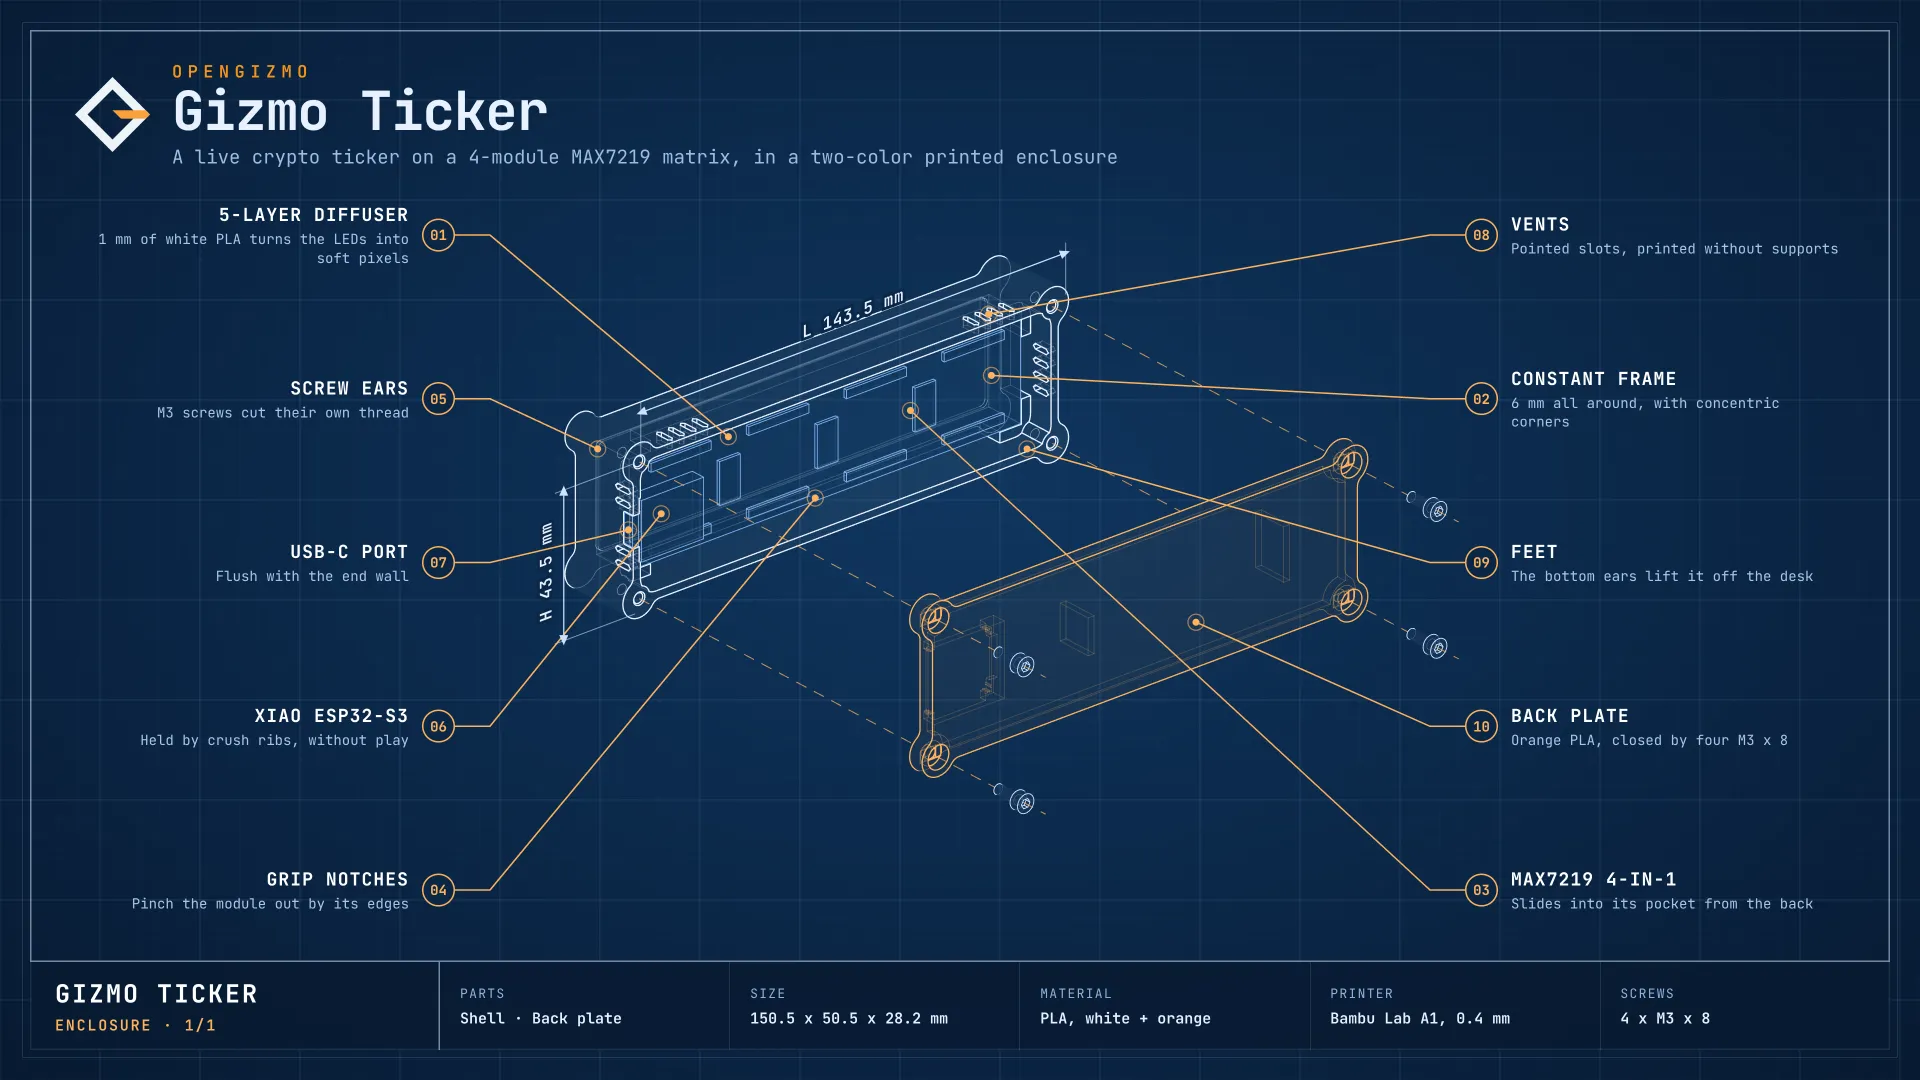
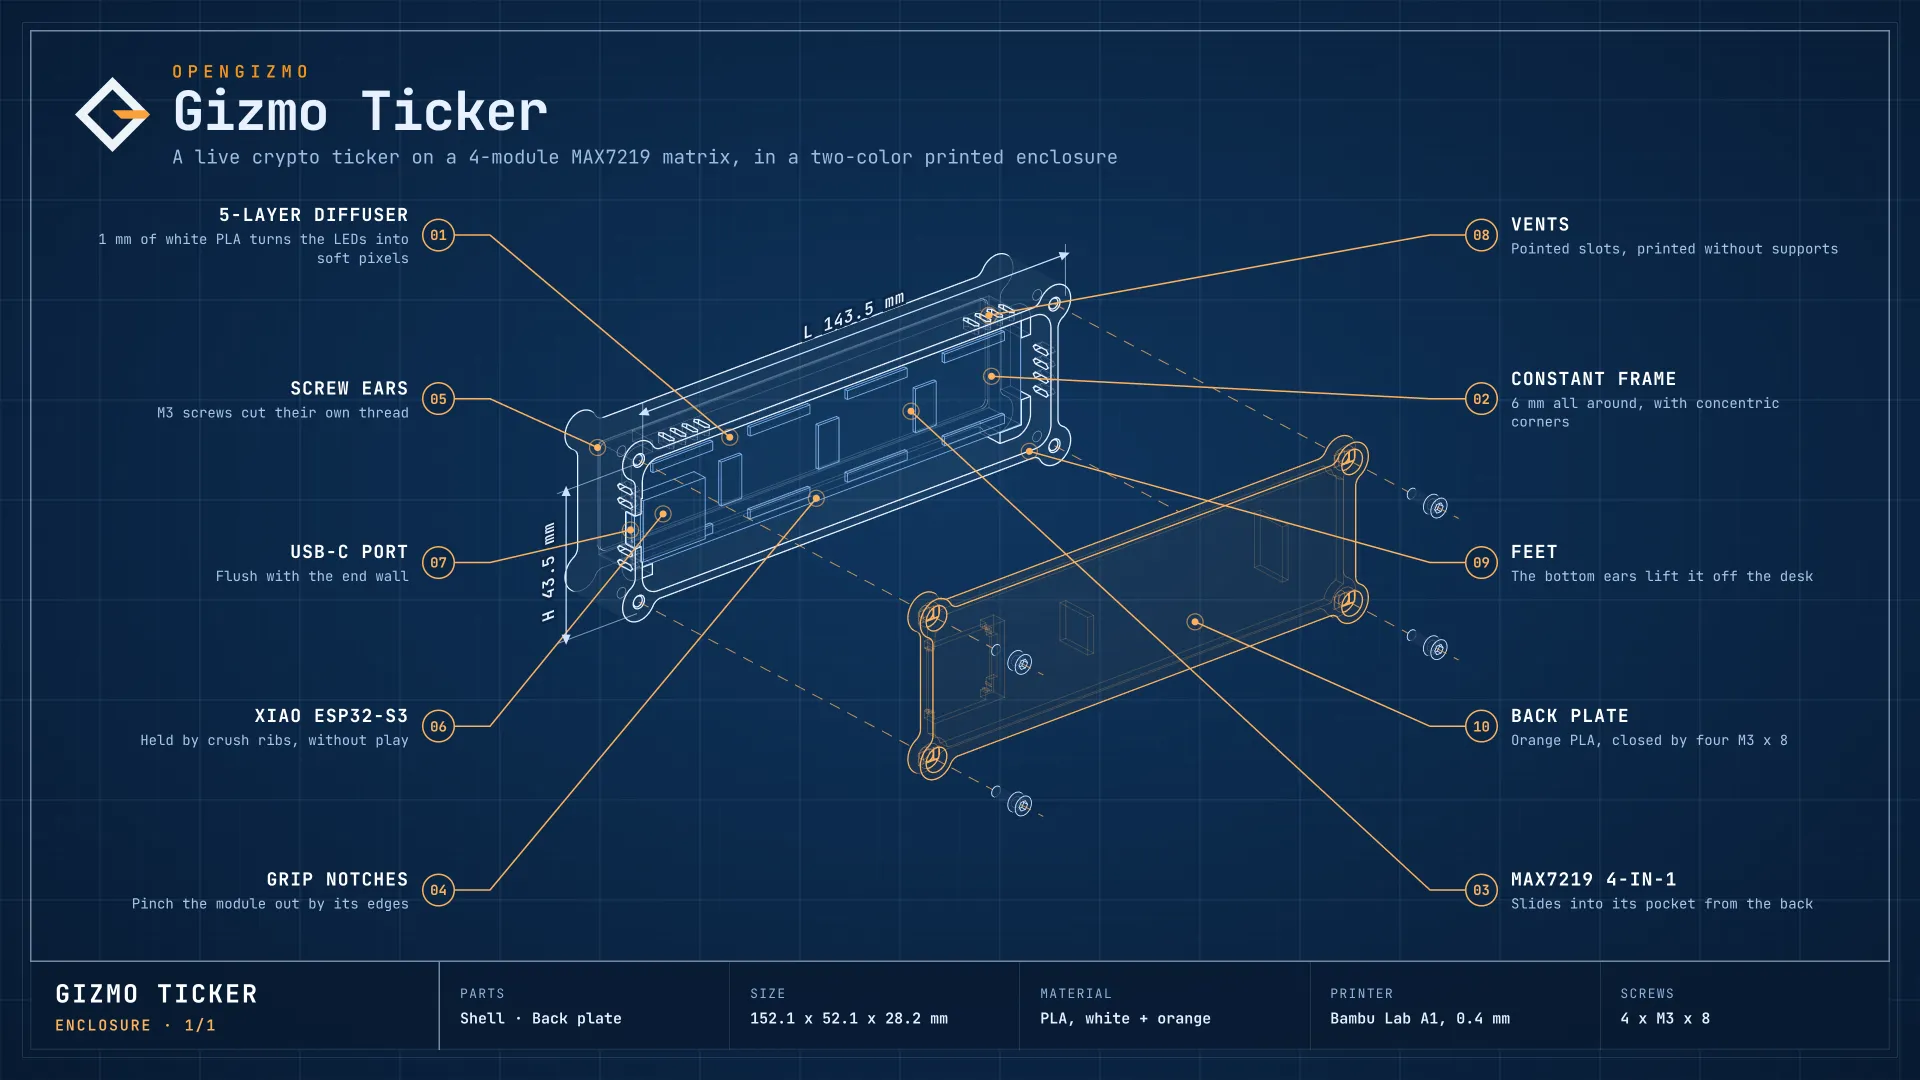
Enclosure images: the screws go through the ears, outside the body
The ears stand a little further out (152.1 x 52.1 mm), so no screw thread is
inside the white shell.

Claude-Session: https://claude.ai/code/session_01Beyeb2bLs5RNeVFbkiFgPU

diff --git a/CHANGELOG.md b/CHANGELOG.md
@@ -5,7 +5,7 @@ What changed in each release. New notes go under **Unreleased** while the work i
 ## Unreleased
 
 - The ticker describes itself to AI agents: a Markdown guide at `http://gizmo-ticker.local/llms.txt` explains what it shows and how to read its settings, with its address filled in. Flash the new firmware to get it.
-- New enclosure look: round screw ears at the corners, like the other OpenGizmo gadgets, and a thinner 6 mm frame around the LEDs. It's smaller (150.5 x 50.5 mm instead of 153.6 x 53.6), stands on its two bottom ears instead of the rails, and the four M3 x 8 screws sit flush in the back plate. The parts inside and the wiring are the same, so there's nothing to flash or rewire: print the new shell and back plate only if you want the new look.
+- New enclosure look: round screw ears at the corners, like the other OpenGizmo gadgets, and a thinner 6 mm frame around the LEDs. It's a bit smaller (152.1 x 52.1 mm instead of 153.6 x 53.6) and stands on its two bottom ears instead of the rails. The four M3 x 8 screws go through the ears, outside the body, and sit flush in the back plate. The parts inside and the wiring are the same, so there's nothing to flash or rewire: print the new shell and back plate only if you want the new look.
 
 ## v1.2.1 - 2026-11-14
 
